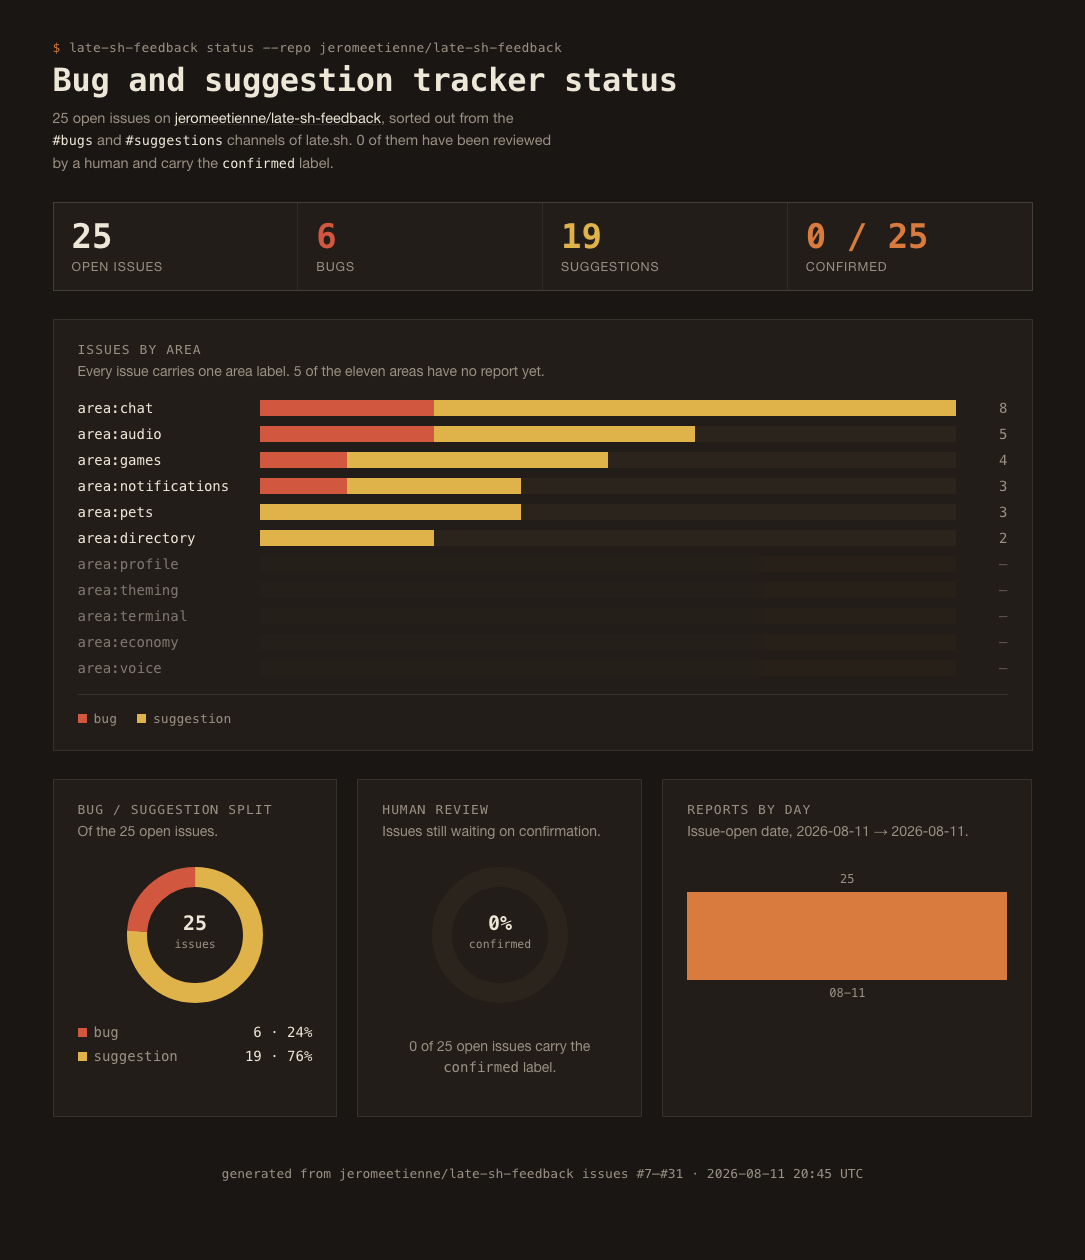
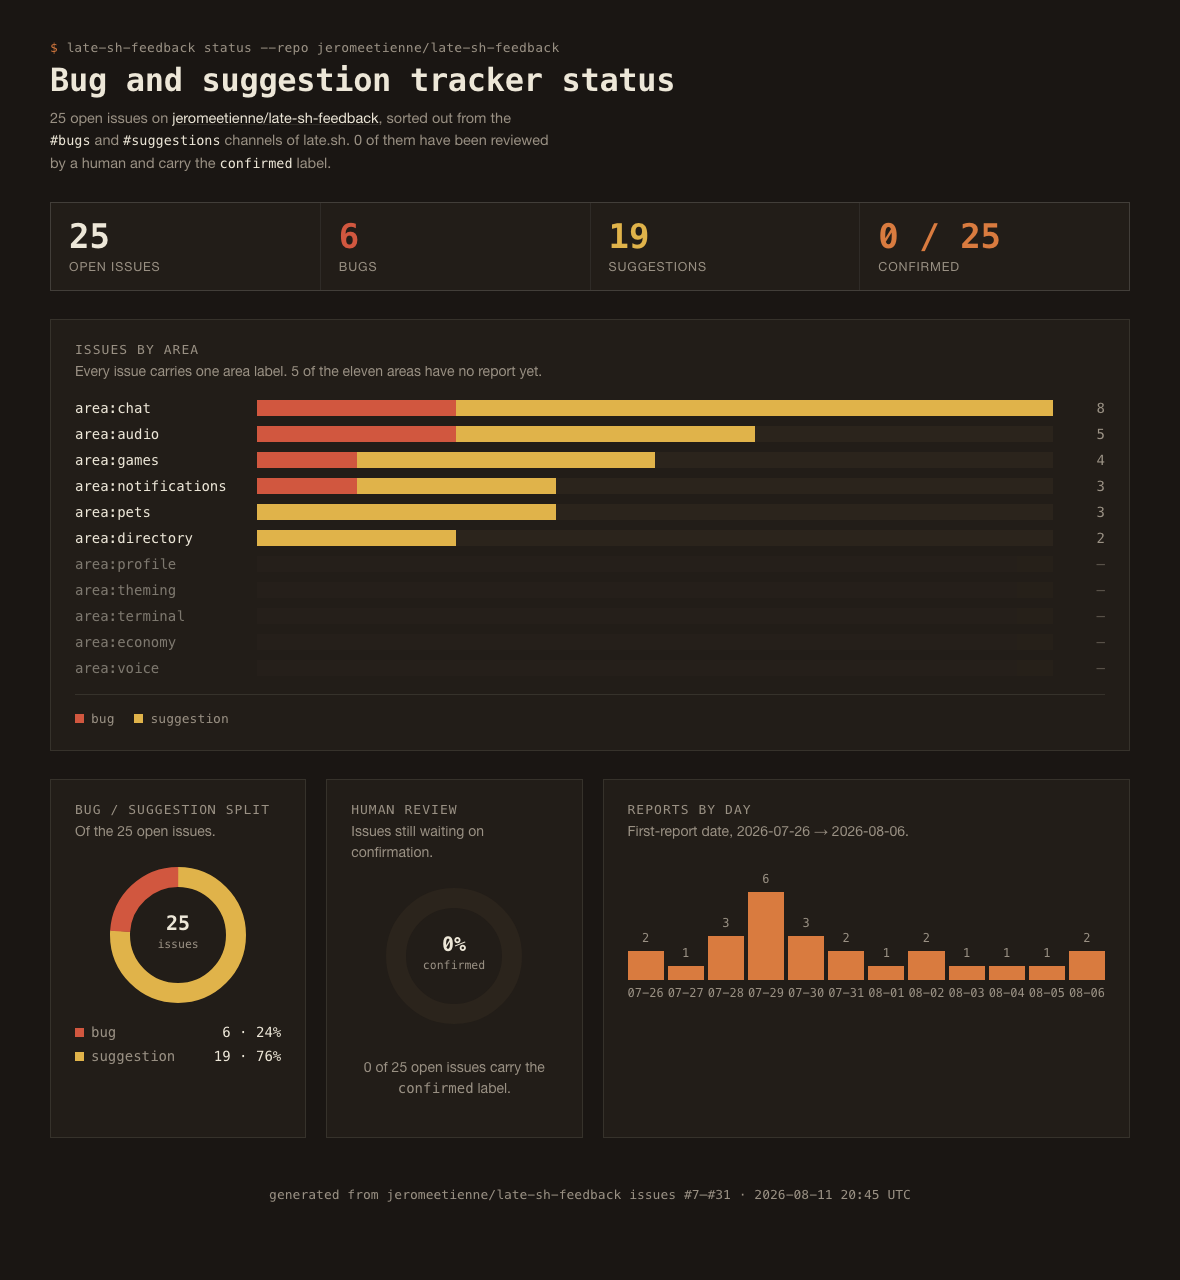
Fix Reports by day panel to use first-report date, not issue creation date
All 25 issues were created in the same backfill batch, so grouping by
created_at collapsed the histogram into a single day. Parse each issue's
"What people said" bullets for the actual chat report dates instead.
Also widen the page slightly so the row3 panel titles no longer wrap.

diff --git a/.claude/skills/latesh-tracker-status/SKILL.md b/.claude/skills/latesh-tracker-status/SKILL.md
@@ -27,14 +27,16 @@ This skill takes one optional argument.
 
 ### 1. Read the current issue tracker state
 
-Fetch every open issue on `jeromeetienne/late-sh-feedback`, with its number, title, creation date, and labels:
+Fetch every open issue on `jeromeetienne/late-sh-feedback`, with its number, title, body, and labels:
 
 ```
 gh api --paginate repos/jeromeetienne/late-sh-feedback/issues --method GET -f state=open -f per_page=100 \
-  --jq '.[] | select(.pull_request == null) | {number, title, created_at, labels: [.labels[].name]}'
+  --jq '.[] | select(.pull_request == null) | {number, title, body, labels: [.labels[].name]}'
 ```
 
 The `select(.pull_request == null)` step is needed because the GitHub issues endpoint also returns pull requests — this repository does not use pull requests, but drop them anyway in case one ever appears. Keep only open issues; closed issues are handled work and stay out of this dashboard.
+
+The `body` field is fetched, not just metadata, because the "Reports by day" panel needs the date each issue was actually *reported in chat*, not the date the GitHub issue itself was created. Every issue body has one or more `## What people said` bullets shaped `- {date} {time} UTC **{nickname}**: ...`, per the template in `docs/ingestion_process.md` — extract the `{date}` (`YYYY-MM-DD`) from each bullet in a given issue's body, and take the earliest one as that issue's `firstReportDate`. Do not use the issue's `created_at` for this — when a batch of issues is published together (for example by `/latesh-backfill-issues`), every issue in that batch shares the same `created_at`, which collapses the whole histogram into a single day and defeats the point of the panel.
 
 ### 2. Compute the numbers the dashboard needs
 
@@ -47,8 +49,8 @@ From the fetched list:
 - `AREAS`: one row per area label in the taxonomy — `area:games`, `area:chat`, `area:directory`, `area:audio`, `area:notifications`, `area:profile`, `area:theming`, `area:terminal`, `area:economy`, `area:voice`, `area:pets` — each with its own open bug count and open suggestion count. Include every area even when both counts are zero. Sort the rows by total (bug count plus suggestion count) descending; break ties by the order the areas are listed above.
 - `EMPTY_AREA_COUNT`: how many of the eleven areas above have a total of zero.
 - `MIN_ISSUE_NUMBER`, `MAX_ISSUE_NUMBER`: the lowest and highest open issue numbers.
-- `DAYS`: one entry per calendar day (UTC) that has at least one open issue, from the earliest creation date to the latest, as `[MM-DD, count]` pairs, sorted chronologically. A day with no issues created still needs an entry with count `0` if it falls between the first and last day, so the bars read as a continuous timeline.
-- `FIRST_DATE`, `LAST_DATE`: the earliest and latest creation dates among open issues, as `YYYY-MM-DD`.
+- `DAYS`: one entry per calendar day (UTC) from the earliest `firstReportDate` to the latest, as `[MM-DD, count]` pairs, sorted chronologically, where `count` is how many open issues have that `firstReportDate`. A day with no matching issues still needs an entry with count `0` if it falls between the first and last day, so the bars read as a continuous timeline.
+- `FIRST_DATE`, `LAST_DATE`: the earliest and latest `firstReportDate` among open issues, as `YYYY-MM-DD`.
 - `GENERATED_AT`: the current date and time in UTC, as `YYYY-MM-DD HH:MM UTC`.
 
 ### 3. Fill in the HTML template
@@ -97,7 +99,7 @@ Keep the `<meta charset="utf-8">` line exactly where it is, as the first line of
   }
 
   .page {
-    max-width: 980px;
+    max-width: 1080px;
     margin: 0 auto;
     display: flex;
     flex-direction: column;
@@ -442,7 +444,7 @@ Keep the `<meta charset="utf-8">` line exactly where it is, as the first line of
 
     <div class="panel">
       <p class="panel-title">Reports by day</p>
-      <p class="panel-note">Issue-open date, {{FIRST_DATE}} → {{LAST_DATE}}.</p>
+      <p class="panel-note">First-report date, {{FIRST_DATE}} → {{LAST_DATE}}.</p>
       <div class="hist" id="hist"></div>
       <div class="hist-labels" id="hist-labels"></div>
     </div>
@@ -507,9 +509,9 @@ The Artifact tool and the sandboxed browser pane cannot screenshot a locally-wri
 2. Render the page to a PNG file with a headless Chrome or Chromium binary already installed on the machine (for example, on macOS, `/Applications/Google Chrome.app/Contents/MacOS/Google Chrome`):
    ```
    {chromeBinaryPath} --headless --disable-gpu --screenshot={repoRoot}/data/tracker-status/dashboard.png \
-     --window-size=1085,1300 --hide-scrollbars http://127.0.0.1:{port}/latesh-tracker-status.html
+     --window-size=1180,1280 --hide-scrollbars http://127.0.0.1:{port}/latesh-tracker-status.html
    ```
-   The window width, `1085`, is not arbitrary — it is the `.page` element's `max-width: 980px` plus its `body` padding of `48px` on each side, from the template in step 3, plus a few pixels of slack. Rendering at a much wider window (for example `1600`) leaves the page centered in a lot of empty space, which shows up as huge dead margins on both sides of the image. If the `max-width` or the horizontal `body` padding in the template ever changes, change this width to match — `980 + 2 * {horizontal padding}` plus a small margin.
+   The window width, `1180`, is not arbitrary — it is the `.page` element's `max-width: 1080px` plus its `body` padding of `48px` on each side, from the template in step 3, plus a few pixels of slack. Rendering at a much wider window (for example `1600`) leaves the page centered in a lot of empty space, which shows up as huge dead margins on both sides of the image. If the `max-width` or the horizontal `body` padding in the template ever changes, change this width to match — `max-width + 2 * {horizontal padding}` plus a small margin.
 3. Stop the local HTTP server.
 4. Read the resulting `data/tracker-status/dashboard.png` back to confirm the four panels (KPI row, area breakdown, donut, ring, histogram) rendered correctly, every label is legible at normal size, and there is no mojibake in the em dash or arrow characters.
 
